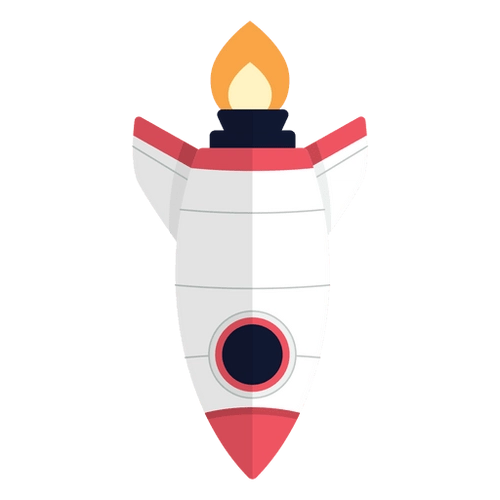
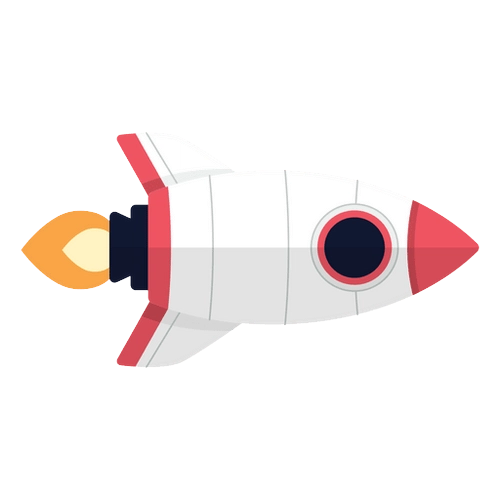
story scrolling rocket

Changed region(s): [[0.03, 0.03, 0.96, 0.96]]

diff --git a/src/components/Rocket.tsx b/src/components/Rocket.tsx
@@ -2,75 +2,65 @@
 
 import { useEffect } from "react";
 import gsap from "gsap";
+import { MotionPathPlugin } from "gsap/MotionPathPlugin";
 import { ScrollTrigger } from "gsap/ScrollTrigger";
 
-gsap.registerPlugin(ScrollTrigger);
+gsap.registerPlugin(MotionPathPlugin, ScrollTrigger);
 
 const Rocket = () => {
   useEffect(() => {
-    const tl = gsap.timeline({
+    gsap.to("#rocket", {
       scrollTrigger: {
-        trigger: "body",
-        start: "top top",
-        end: "bottom bottom",
-        scrub: true,
+        trigger: "body",         // Rakieta rusza przy scrollowaniu całego body
+        start: "top top",        // Od początku strony
+        end: "bottom bottom",    // Do końca
+        scrub: true,             // Płynnie "przyczepiona" do scrolla
+      },
+      ease: "none",
+      motionPath: {
+        path: "#path",           // Używamy Twojej ścieżki
+        align: "#path",
+        autoRotate: true,
+        alignOrigin: [0.5, 0.5],
       },
     });
-
-    // Lot zgodny z Twoim ostatnim rysunkiem
-    tl.to("#rocket", {
-      x: "40vw",
-      y: "0vh",
-      rotate: -20,
-      ease: "none",
-    })
-      .to("#rocket", {
-        x: "25vw",
-        y: "20vh",
-        rotate: -40,
-        ease: "none",
-      })
-      .to("#rocket", {
-        x: "10vw",
-        y: "45vh",
-        rotate: -80,
-        ease: "none",
-      })
-      .to("#rocket", {
-        x: "30vw",
-        y: "70vh",
-        rotate: -40,
-        ease: "none",
-      })
-      .to("#rocket", {
-        x: "55vw",
-        y: "50vh",
-        rotate: -10,
-        ease: "none",
-      })
-      .to("#rocket", {
-        x: "30vw",
-        y: "30vh",
-        rotate: -60,
-        ease: "none",
-      })
-      .to("#rocket", {
-        x: "5vw",
-        y: "100vh",
-        rotate: -120,
-        scale: 0.9,
-        opacity: 0.5,
-        ease: "none",
-      });
   }, []);
 
   return (
-    <img
-      id="rocket"
-      src="/images/rocket.png"
-      alt="rocket"
-      className="fixed top-0 left-0 w-64 z-50 pointer-events-none"
-    />
+    <>
+      {/* Rakieta */}
+      <img
+        id="rocket"
+        src="/images/rocket.png"
+        alt="rocket"
+        className="fixed top-0 left-0 w-32 md:w-40 lg:w-64 xl:w-96 -z-50 pointer-events-none"
+      />
+
+      {/* SVG z Twoją ścieżką */}
+      <svg
+        className="fixed top-0 left-0 w-screen h-screen z-0 pointer-events-none"
+        viewBox="-20 0 450 200"
+        id="svg"
+      >
+        <g transform="translate(0, 0)">
+        <path
+          id="path"
+          fill="none"
+          stroke="transparent"
+          strokeWidth="2"
+          d="M9,100c0,0,18.53-41.58,49.91-65.11
+             c30-22.5,65.81-24.88,77.39-24.88
+             c33.87,0,57.55,11.71,77.05,28.47
+             c23.09,19.85,40.33,46.79,61.71,69.77
+             c24.09,25.89,53.44,46.75,102.37,46.75
+             c22.23,0,40.62-2.83,55.84-7.43
+             c27.97-8.45,44.21-22.88,54.78-36.7
+             c14.35-18.75,16.43-36.37,16.43-36.37
+             "
+        />
+        </g>
+      </svg>
+    </>
   );
 };
 

diff --git a/src/app/layout.tsx b/src/app/layout.tsx
@@ -132,8 +132,8 @@ export default function RootLayout({
         <section id="contact">
         <Contact />
         </section>
+        <Rocket />
         <Footer />
-        
         {children}
       </body>
     </html>
